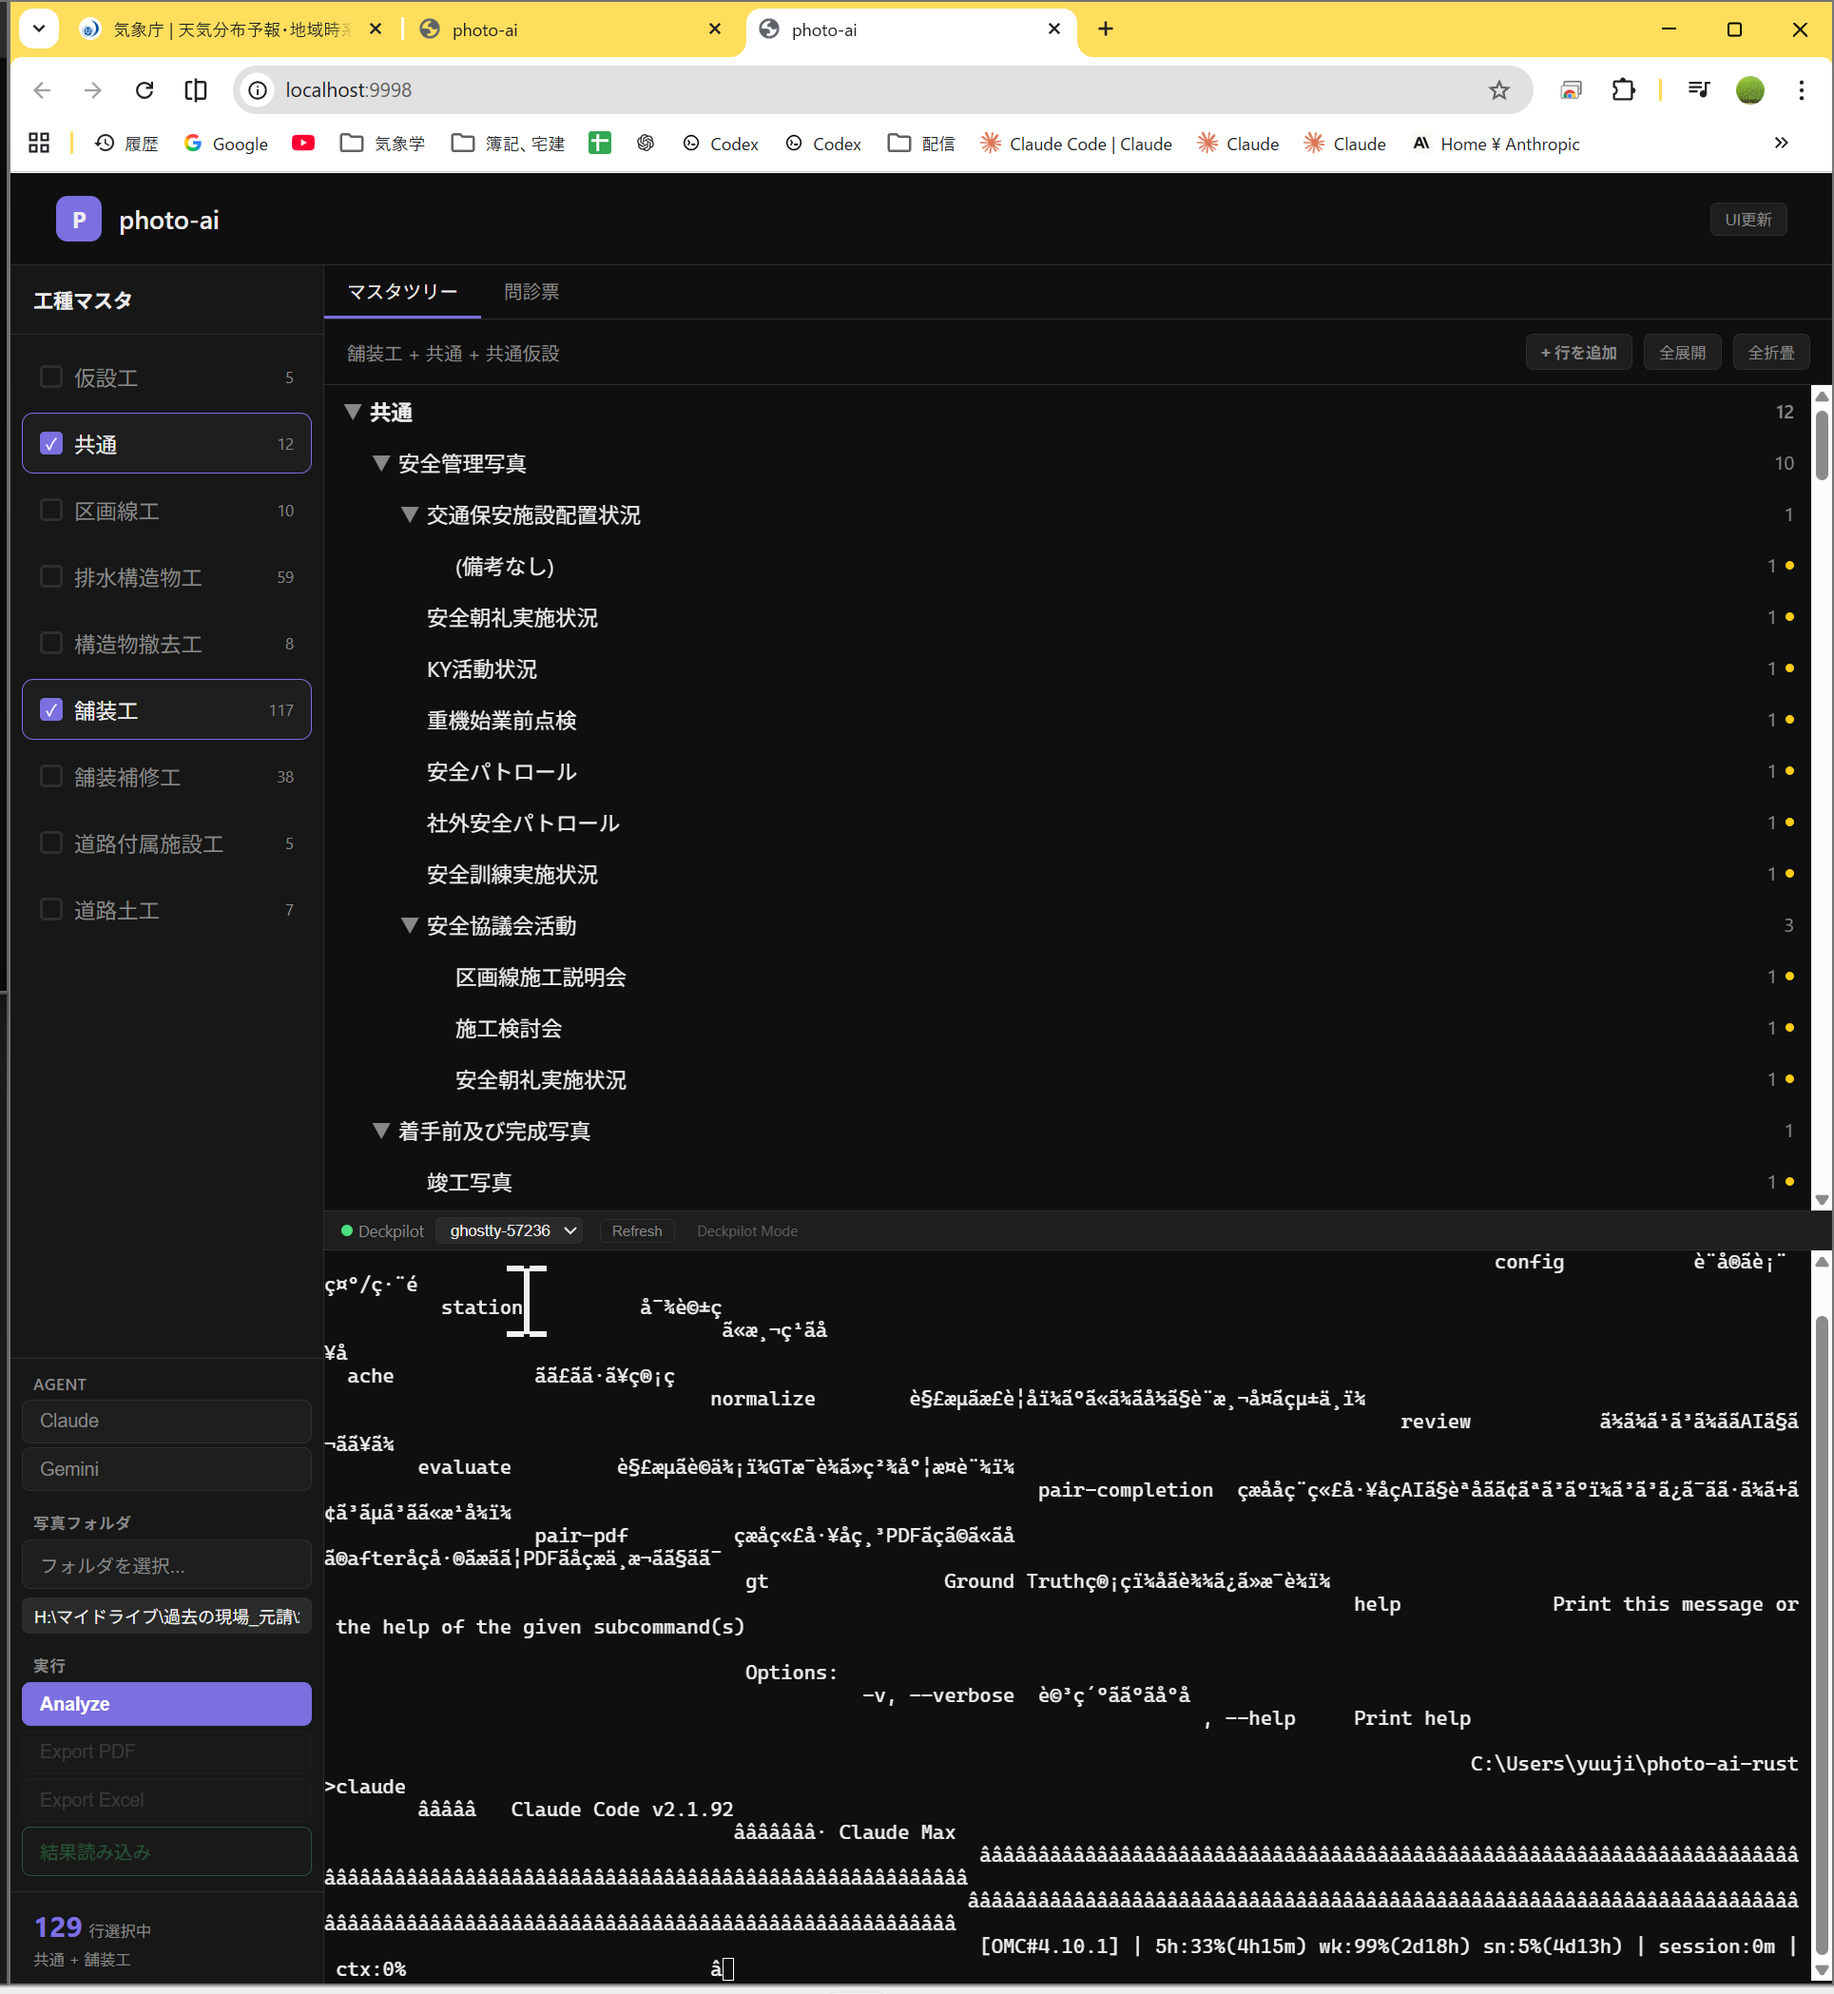
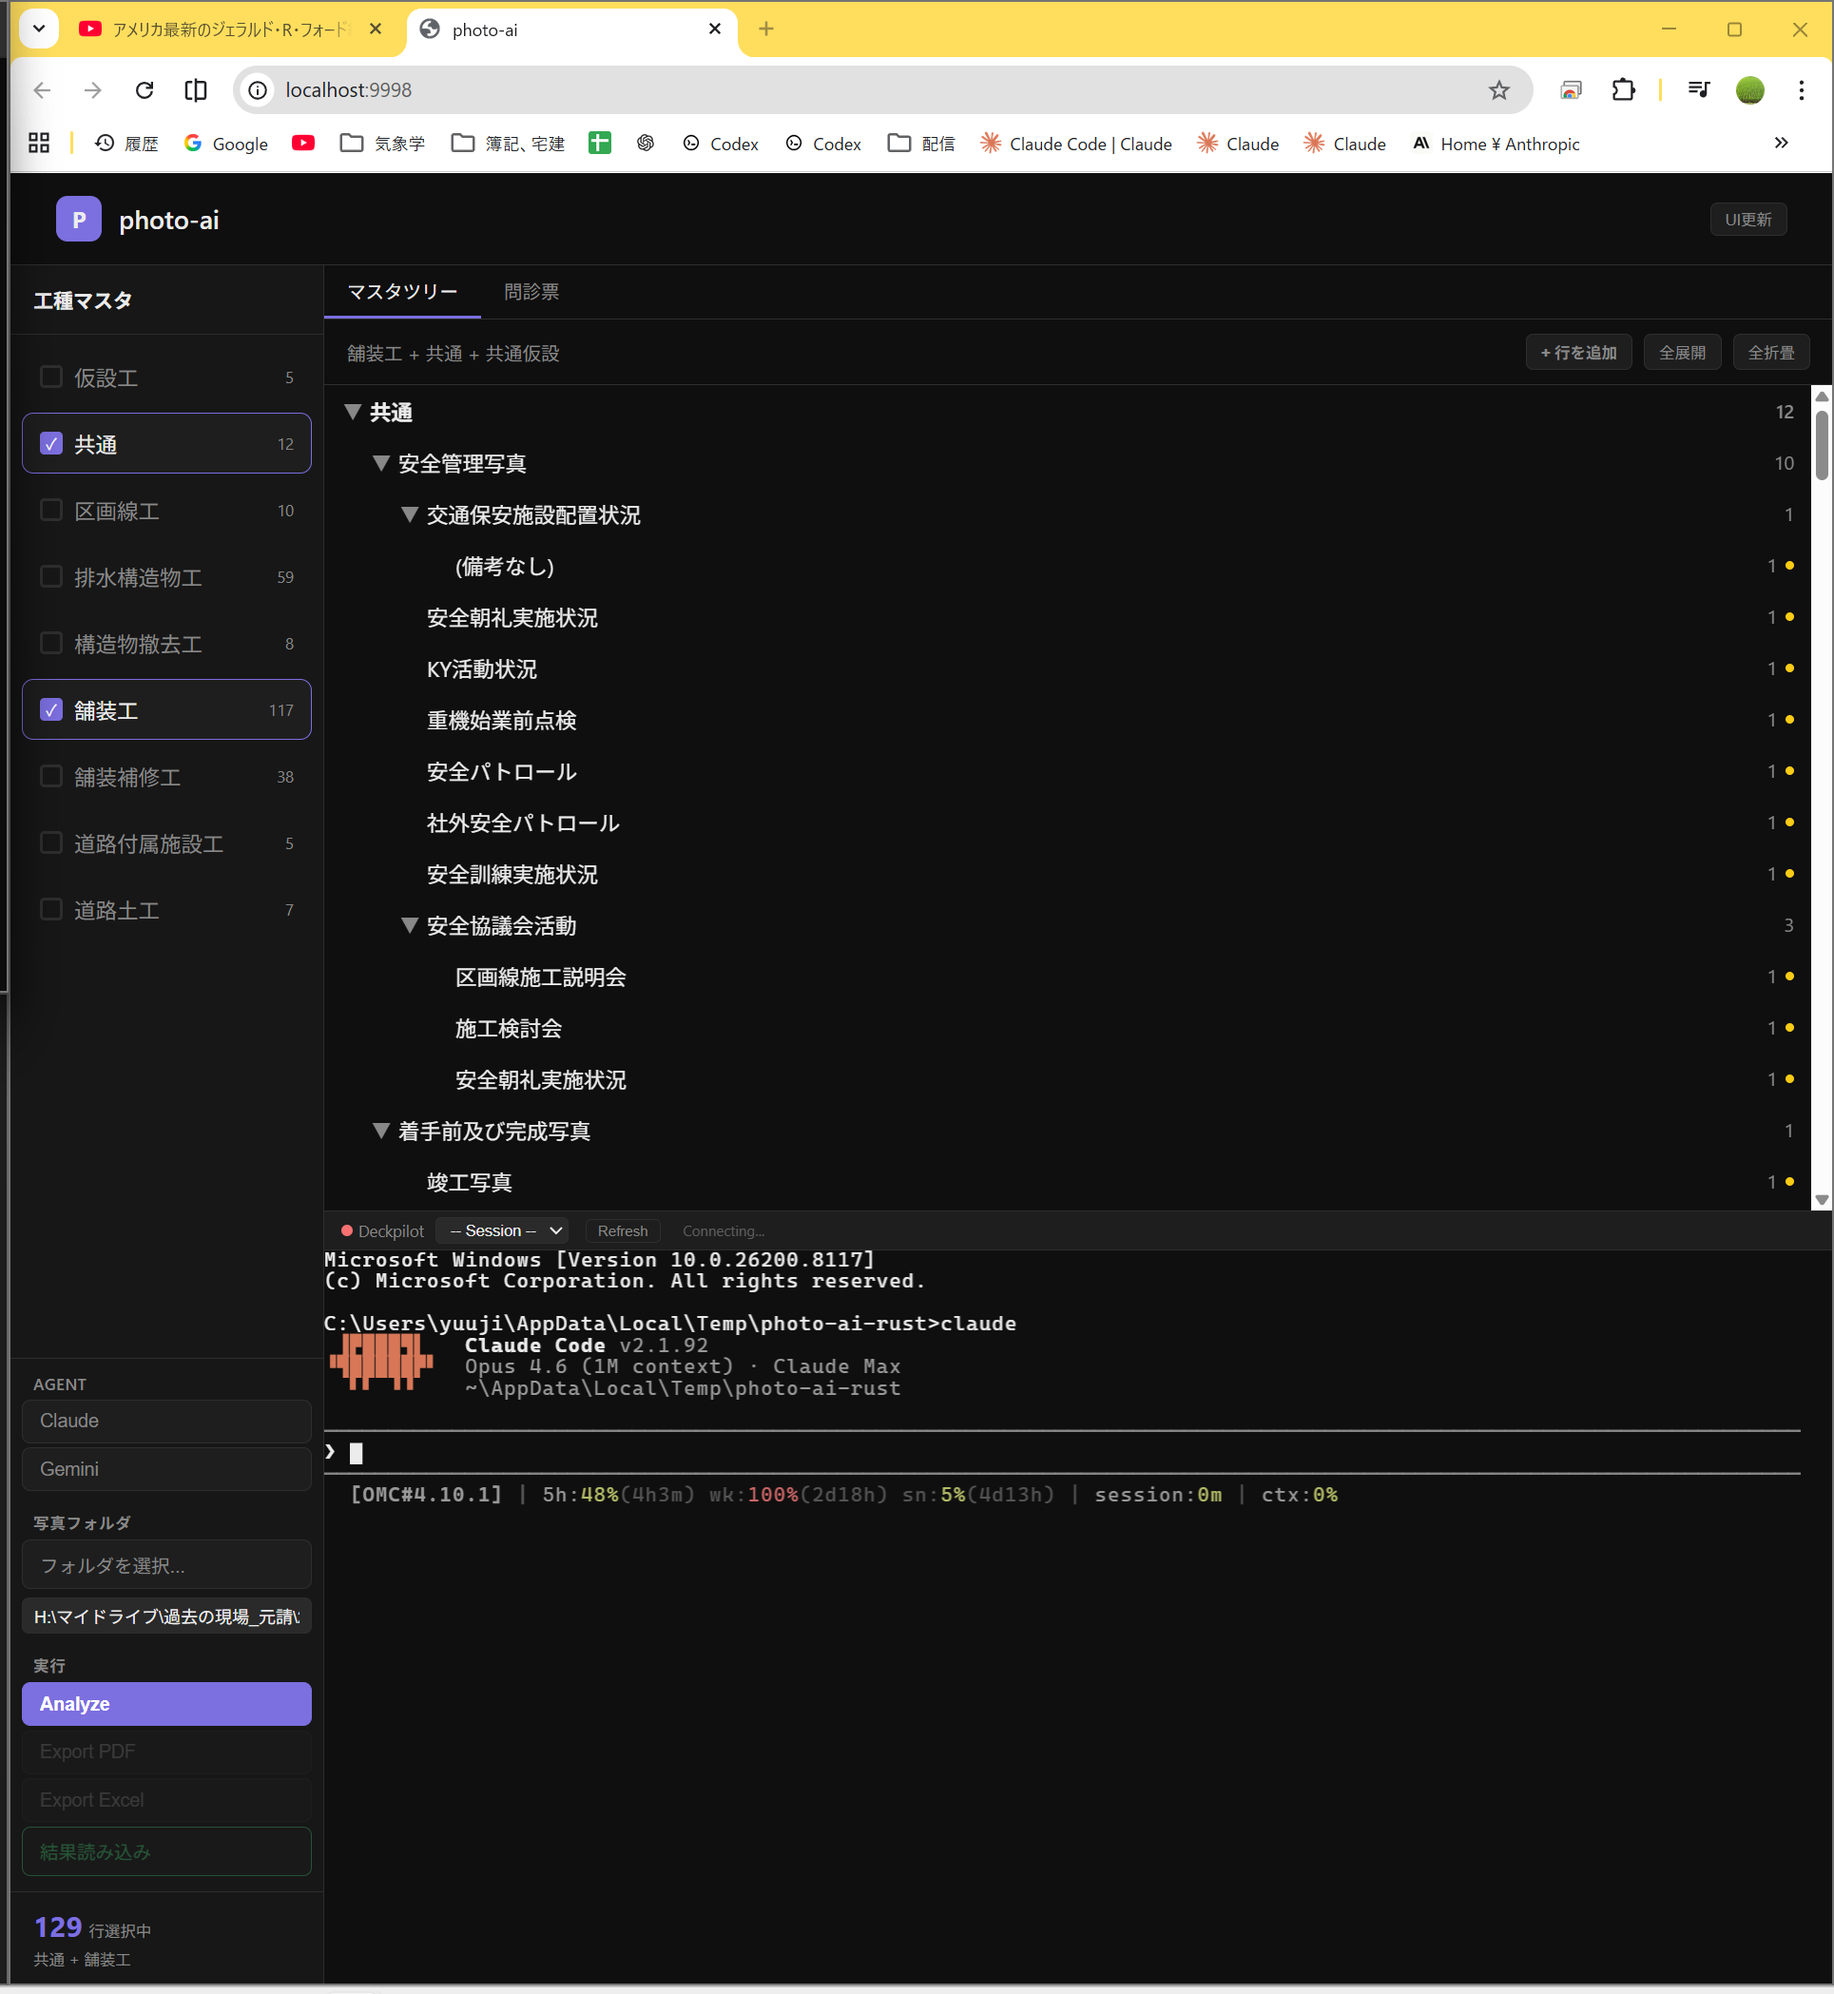
fix: restore ghostty-web terminal, replace broken xterm.js/deckpilot WS
Revert terminal.html to original ghostty-web WASM renderer (port 8888).
The deckpilot WS bridge integration (bd4e30c) replaced ghostty-web with
xterm.js CDN which broke: UTF-8 CJK display, ANSI colors, line wrapping.
Screenshot now shows real ghostty-web terminal with proper rendering.

diff --git a/web/terminal.html b/web/terminal.html
@@ -4,7 +4,6 @@
 <meta charset="UTF-8">
 <meta name="viewport" content="width=device-width, initial-scale=1.0">
 <title>terminal</title>
-<link rel="stylesheet" href="https://cdn.jsdelivr.net/npm/xterm@5.3.0/css/xterm.css" />
 <style>
 * { margin: 0; padding: 0; box-sizing: border-box; }
 html, body { width: 100%; height: 100%; overflow: hidden; background: #0f0f0f; }
@@ -14,212 +13,68 @@ html, body { width: 100%; height: 100%; overflow: hidden; background: #0f0f0f; }
 </head>
 <body>
 <div id="terminal"></div>
-<script src="https://cdn.jsdelivr.net/npm/xterm@5.3.0/lib/xterm.js"></script>
-<script src="https://cdn.jsdelivr.net/npm/xterm-addon-fit@0.8.0/lib/xterm-addon-fit.js"></script>
-<script>
-  const GHOSTTY_SERVER = 'http://localhost:9998';
-  const DECKPILOT_WS = 'ws://localhost:8099/ws';
-  const PTY_WS = 'ws://localhost:9998/ws?cols=';
+<script type="module">
+  // ghostty-web assets served from /dist/ on the demo server (port 8888)
+  const GHOSTTY_SERVER = 'http://localhost:8888';
 
-  let term;
-  let fitAddon;
+  // Dynamic import from the demo server
+  const { init, Terminal, FitAddon } = await import(GHOSTTY_SERVER + '/dist/ghostty-web.js');
+
+  await init();
+  const term = new Terminal({
+    fontFamily: "'CaskaydiaCove Nerd Font', 'CaskaydiaCove NF', 'Cascadia Code', 'JetBrains Mono', 'Consolas', monospace",
+    fontSize: 14,
+    theme: {
+      background: '#0f0f0f',
+      foreground: '#ececec',
+    },
+  });
+
+  const fitAddon = new FitAddon();
+  term.loadAddon(fitAddon);
+
+  const container = document.getElementById('terminal');
+  await term.open(container);
+  fitAddon.fit();
+  fitAddon.observeResize();
+
+  // Connect to the PTY WebSocket on the demo server
+  const wsUrl = 'ws://localhost:8888/ws?cols=' + term.cols + '&rows=' + term.rows;
   let ws;
-  let mode = 'init'; // 'deckpilot' | 'pty'
-  let dpSession = '';
-  let pendingCmds = [];
-
-  async function start() {
-    // Try to load ghostty-web if available, otherwise use plain xterm
-    let TerminalClass = window.Terminal;
-    let FitAddonClass = window.FitAddon.FitAddon;
-
-    try {
-      const ghostty = await import(GHOSTTY_SERVER + '/dist/ghostty-web.js').catch(() => null);
-      if (ghostty) {
-        await ghostty.init();
-        TerminalClass = ghostty.Terminal;
-        FitAddonClass = ghostty.FitAddon;
-        console.log('Using ghostty-web terminal');
-      }
-    } catch (e) {
-      console.warn('ghostty-web load failed, using xterm.js from CDN');
-    }
-
-    term = new TerminalClass({
-      fontFamily: "'CaskaydiaCove Nerd Font', 'CaskaydiaCove NF', 'Cascadia Code', 'JetBrains Mono', 'Consolas', monospace",
-      fontSize: 14,
-      theme: { background: '#0f0f0f', foreground: '#ececec' },
-      allowProposedApi: true
-    });
-
-    fitAddon = new FitAddonClass();
-    term.loadAddon(fitAddon);
-
-    const container = document.getElementById('terminal');
-    term.open(container);
-    fitAddon.fit();
-    if (fitAddon.observeResize) fitAddon.observeResize();
-
-    term.onData((data) => {
-      if (ws && ws.readyState === WebSocket.OPEN) {
-        if (mode === 'deckpilot') {
-          if (!dpSession) return;
-          ws.send(JSON.stringify({ cmd: 'SEND', session: dpSession, msg: btoa(data) }));
-          // Optional: refresh buffer soon after input
-          setTimeout(() => ws.send(JSON.stringify({ cmd: 'SHOW', session: dpSession, mode: 'buffer' })), 50);
-        } else {
-          ws.send(data);
-        }
-      }
-    });
-
-    term.onResize(({ cols, rows }) => {
-      if (mode === 'pty' && ws && ws.readyState === WebSocket.OPEN) {
-        ws.send(JSON.stringify({ type: 'resize', cols, rows }));
-      }
-    });
-
-    connect();
-
-    container.addEventListener('click', () => term.focus());
-    term.focus();
-    
-    window.addEventListener('resize', () => fitAddon.fit());
-  }
 
   function connect() {
-    term.write('\x1b[33mConnecting to Deckpilot (localhost:8099)...\x1b[0m\r\n');
-    ws = new WebSocket(DECKPILOT_WS);
-    
-    ws.onopen = () => {
-      mode = 'deckpilot';
-      term.write('\x1b[32mConnected to Deckpilot.\x1b[0m\r\n');
-      ws.send(JSON.stringify({ cmd: 'LIST' }));
-      notifyReady();
-    };
-
-    ws.onmessage = (e) => {
-      if (mode === 'deckpilot') {
-        try {
-          const data = JSON.parse(e.data);
-          if (data.cmd === 'SHOW' || data.type === 'buffer' || data.mode === 'buffer') {
-            // SHOW response: data.data is base64-encoded terminal content
-            const b64 = data.data || data.msg || '';
-            if (b64) {
-              term.reset();
-              const decoded = atob(b64);
-              term.write(decoded);
-            }
-          } else if (data.cmd === 'LIST' || Array.isArray(data) || data.sessions) {
-            const sessions = data.data || data.sessions || (Array.isArray(data) ? data : []);
-            if (sessions.length > 0) {
-              // Notify parent about session list
-              if (window.parent !== window) {
-                window.parent.postMessage({ type: 'dp-sessions', sessions: sessions }, '*');
-              }
-              if (!dpSession) {
-                // Prefer active/idle sessions over dead ones
-                const alive = sessions.filter(s => (s.status || s.Status) === 'active' || (s.status || s.Status) === 'idle');
-                const first = alive.length > 0 ? alive[0] : sessions[0];
-                dpSession = typeof first === 'string' ? first : (first.name || first.Session);
-                const status = (first.status || first.Status) ? ` (${first.status || first.Status})` : '';
-                term.write(`[dp] Auto-selected session: ${dpSession}${status}\r\n`);
-                ws.send(JSON.stringify({ cmd: 'SHOW', session: dpSession, mode: 'buffer' }));
-                flushPending();
-              }
-            } else {
-              term.write('\x1b[31m[dp] No sessions found. Run ghostty first.\x1b[0m\r\n');
-            }
-          } else if (data.data && typeof data.data === 'string') {
-            // Fallback: if server doesn't have cmd field yet, treat string data as buffer
-            term.reset();
-            const decoded = atob(data.data);
-            term.write(decoded);
-          }
-        } catch (err) {
-          term.write(e.data);
-        }
-      } else {
-        term.write(e.data);
-      }
-    };
-
-    ws.onerror = () => {
-      if (mode === 'init') {
-        term.write('\x1b[31mDeckpilot connection failed. Falling back to PTY (localhost:9998)...\x1b[0m\r\n');
-        fallbackToPty();
-      }
-    };
-
-    ws.onclose = () => {
-      if (mode === 'deckpilot') {
-        term.write('\r\n\x1b[31mDeckpilot disconnected. Falling back to PTY...\x1b[0m\r\n');
-        fallbackToPty();
-      }
-    };
-  }
-
-  function fallbackToPty() {
-    mode = 'pty';
-    const url = PTY_WS + term.cols + '&rows=' + term.rows;
-    ws = new WebSocket(url);
-    ws.onopen = () => {
-      term.write('\x1b[32mConnected to PTY.\x1b[0m\r\n');
-      notifyReady();
-      flushPending();
-    };
+    ws = new WebSocket(wsUrl);
+    ws.onopen = () => {};
     ws.onmessage = (e) => term.write(e.data);
     ws.onclose = () => {
-      term.write('\r\n\x1b[31mPTY disconnected. Reconnecting...\x1b[0m\r\n');
-      setTimeout(connect, 3000);
+      term.write('\r\n\x1b[31mDisconnected. Reconnecting...\x1b[0m\r\n');
+      setTimeout(connect, 2000);
     };
+    ws.onerror = () => {};
   }
 
-  function notifyReady() {
-    if (window.parent !== window) {
-      window.parent.postMessage({ type: 'terminal-ready', mode: mode }, '*');
-    }
-  }
+  term.onData((data) => {
+    if (ws && ws.readyState === WebSocket.OPEN) ws.send(data);
+  });
 
-  function flushPending() {
-    while (pendingCmds.length > 0) {
-      const cmd = pendingCmds.shift();
-      sendCmd(cmd);
-    }
-  }
-
-  function sendCmd(cmd) {
-    if (!ws || ws.readyState !== WebSocket.OPEN) {
-      pendingCmds.push(cmd);
-      return;
-    }
-    if (mode === 'deckpilot') {
-      if (!dpSession) { pendingCmds.push(cmd); return; }
-      const encoded = btoa(unescape(encodeURIComponent(cmd + '\r')));
-      ws.send(JSON.stringify({ cmd: 'SEND', session: dpSession, msg: encoded }));
-      setTimeout(() => ws.send(JSON.stringify({ cmd: 'SHOW', session: dpSession, mode: 'buffer' })), 150);
-    } else {
-      ws.send(cmd + '\r');
-    }
-  }
-
-  window.addEventListener('message', (e) => {
-    if (e.data && e.data.type === 'command') {
-      sendCmd(e.data.cmd);
-    } else if (e.data && e.data.type === 'set-session') {
-      dpSession = e.data.session;
-      term.write(`\r\n[dp] Switched to session: ${dpSession}\r\n`);
-      if (ws && ws.readyState === WebSocket.OPEN && mode === 'deckpilot') {
-        ws.send(JSON.stringify({ cmd: 'SHOW', session: dpSession, mode: 'buffer' }));
-      }
-    } else if (e.data && e.data.type === 'refresh-sessions') {
-      if (ws && ws.readyState === WebSocket.OPEN && mode === 'deckpilot') {
-        ws.send(JSON.stringify({ cmd: 'LIST' }));
-      }
+  term.onResize(({ cols, rows }) => {
+    if (ws && ws.readyState === WebSocket.OPEN) {
+      ws.send(JSON.stringify({ type: 'resize', cols, rows }));
     }
   });
 
-  start();
+  connect();
+
+  // Auto-focus terminal on click and on load
+  container.addEventListener('click', () => term.focus());
+  term.focus();
+
+  // Listen for commands from parent window
+  window.addEventListener('message', (e) => {
+    if (e.data && e.data.type === 'command' && ws && ws.readyState === WebSocket.OPEN) {
+      ws.send(e.data.cmd + '\r');
+    }
+  });
 </script>
 </body>
 </html>
